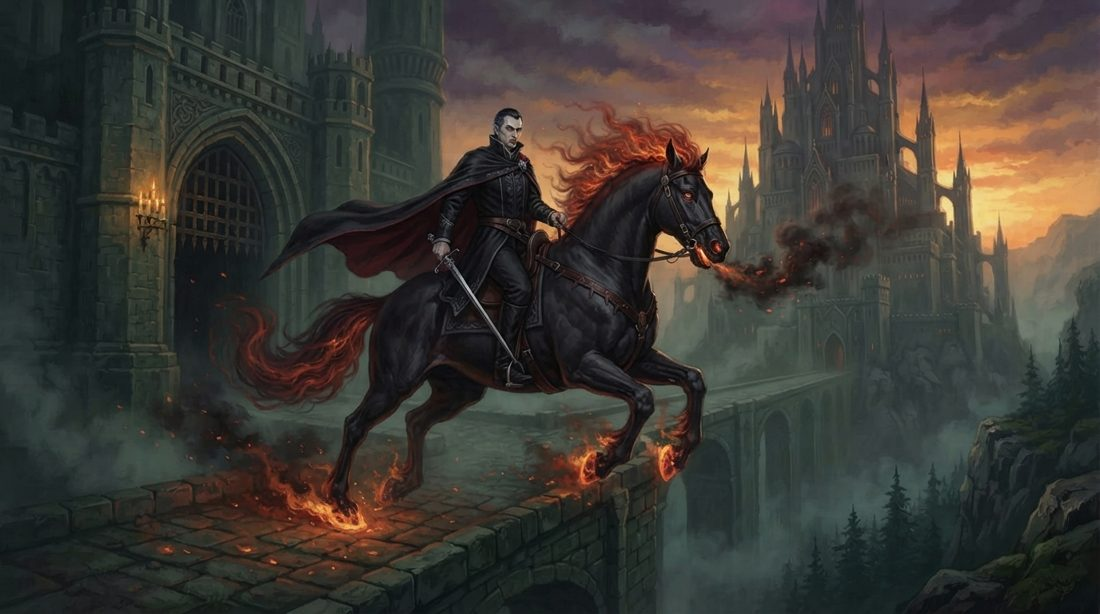
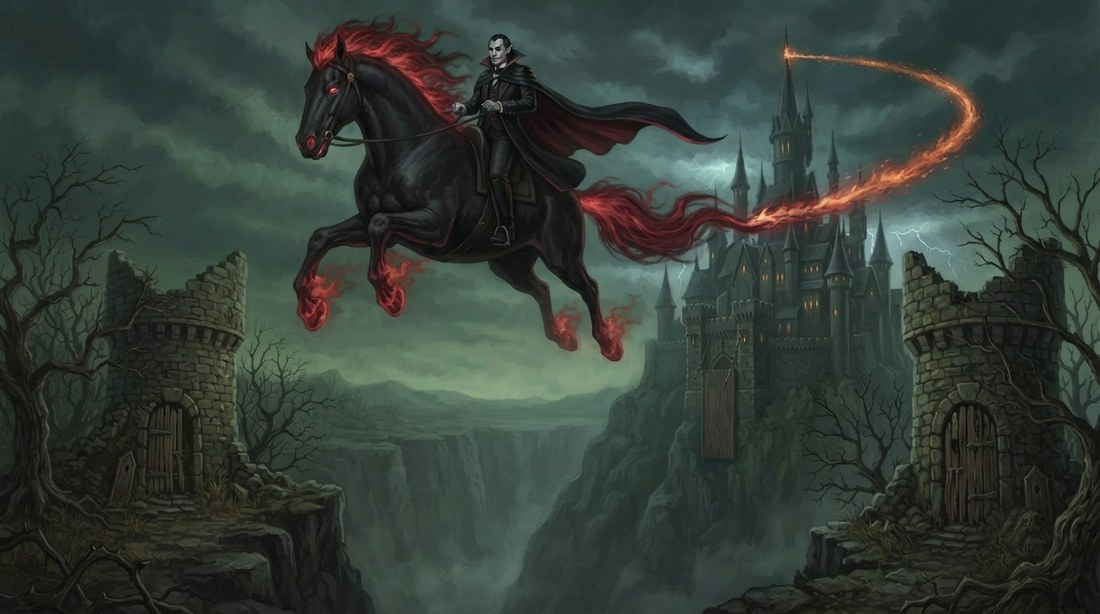
Repaint Beucephalus as the party saw it on 2026-02-10
The old picture showed Strahd trotting out of a gate onto a stone bridge at
sunset, with a second castle behind. At the table the steed flew off the
highest tower at night with the drawbridge raised. New picture uses the
Castle Ravenloft wiki picture as the castle reference; drawbridge fixed by
a region edit. Full-size original in static/images/full/.

Claude-Session: https://claude.ai/code/session_01U8i5qV2yjH33xRNCtxjxHP

diff --git a/content/posts/2026-02-10-unwelcome-guests.md b/content/posts/2026-02-10-unwelcome-guests.md
@@ -24,7 +24,7 @@ Note: The party briefly debated a "Trojan Bunny" strategy, or stealing the Vista
 
 At the edge of the precipice we watched Strahd von Zarovich ride out of the castle on his nightmare, Beucephalus. With the master gone, Aera made herself invisible and Crusty gave her the power to fly. She soared across the chasm and came up behind the wights on the ramparts. With a conjured hand she picked the alarm horn from the first wight’s pocket, then took the second wight’s horn as well. It nearly went very wrong when she tried a running somersault dropkick to send one of them off the edge. She stumbled and bounced off the guard, and the kick undid her invisibility. The fight broke out, and we destroyed the wights. Aera poured oil on the drawbridge chains to quiet them, and we lowered the drawbridge and reached the servants’ entrance.
 
-![Strahd riding Beucephalus, a fiery black nightmare, out of the castle gate](/images/beucephalus-ai.jpg)
+![Strahd on Beucephalus, a black nightmare with a burning mane, flying at night from the highest tower of Castle Ravenloft over the chasm, the drawbridge raised](/images/beucephalus-ai.jpg)
 
 *AI-generated image (Google Gemini, October 2026). Not official art.*
 

diff --git a/content/wiki/beucephalus.md b/content/wiki/beucephalus.md
@@ -7,7 +7,7 @@ source: Compiled from the adventure log, with a description written for the site
 
 ## Description
 
-![Strahd riding Beucephalus, a fiery black nightmare, out of the castle gate](/images/beucephalus-ai.jpg)
+![Strahd on Beucephalus, a black nightmare with a burning mane, flying at night from the highest tower of Castle Ravenloft over the chasm, the drawbridge raised](/images/beucephalus-ai.jpg)
 
 *AI-generated image (Google Gemini, October 2026), drawn from this page and the session logs. Not official art.*
 
